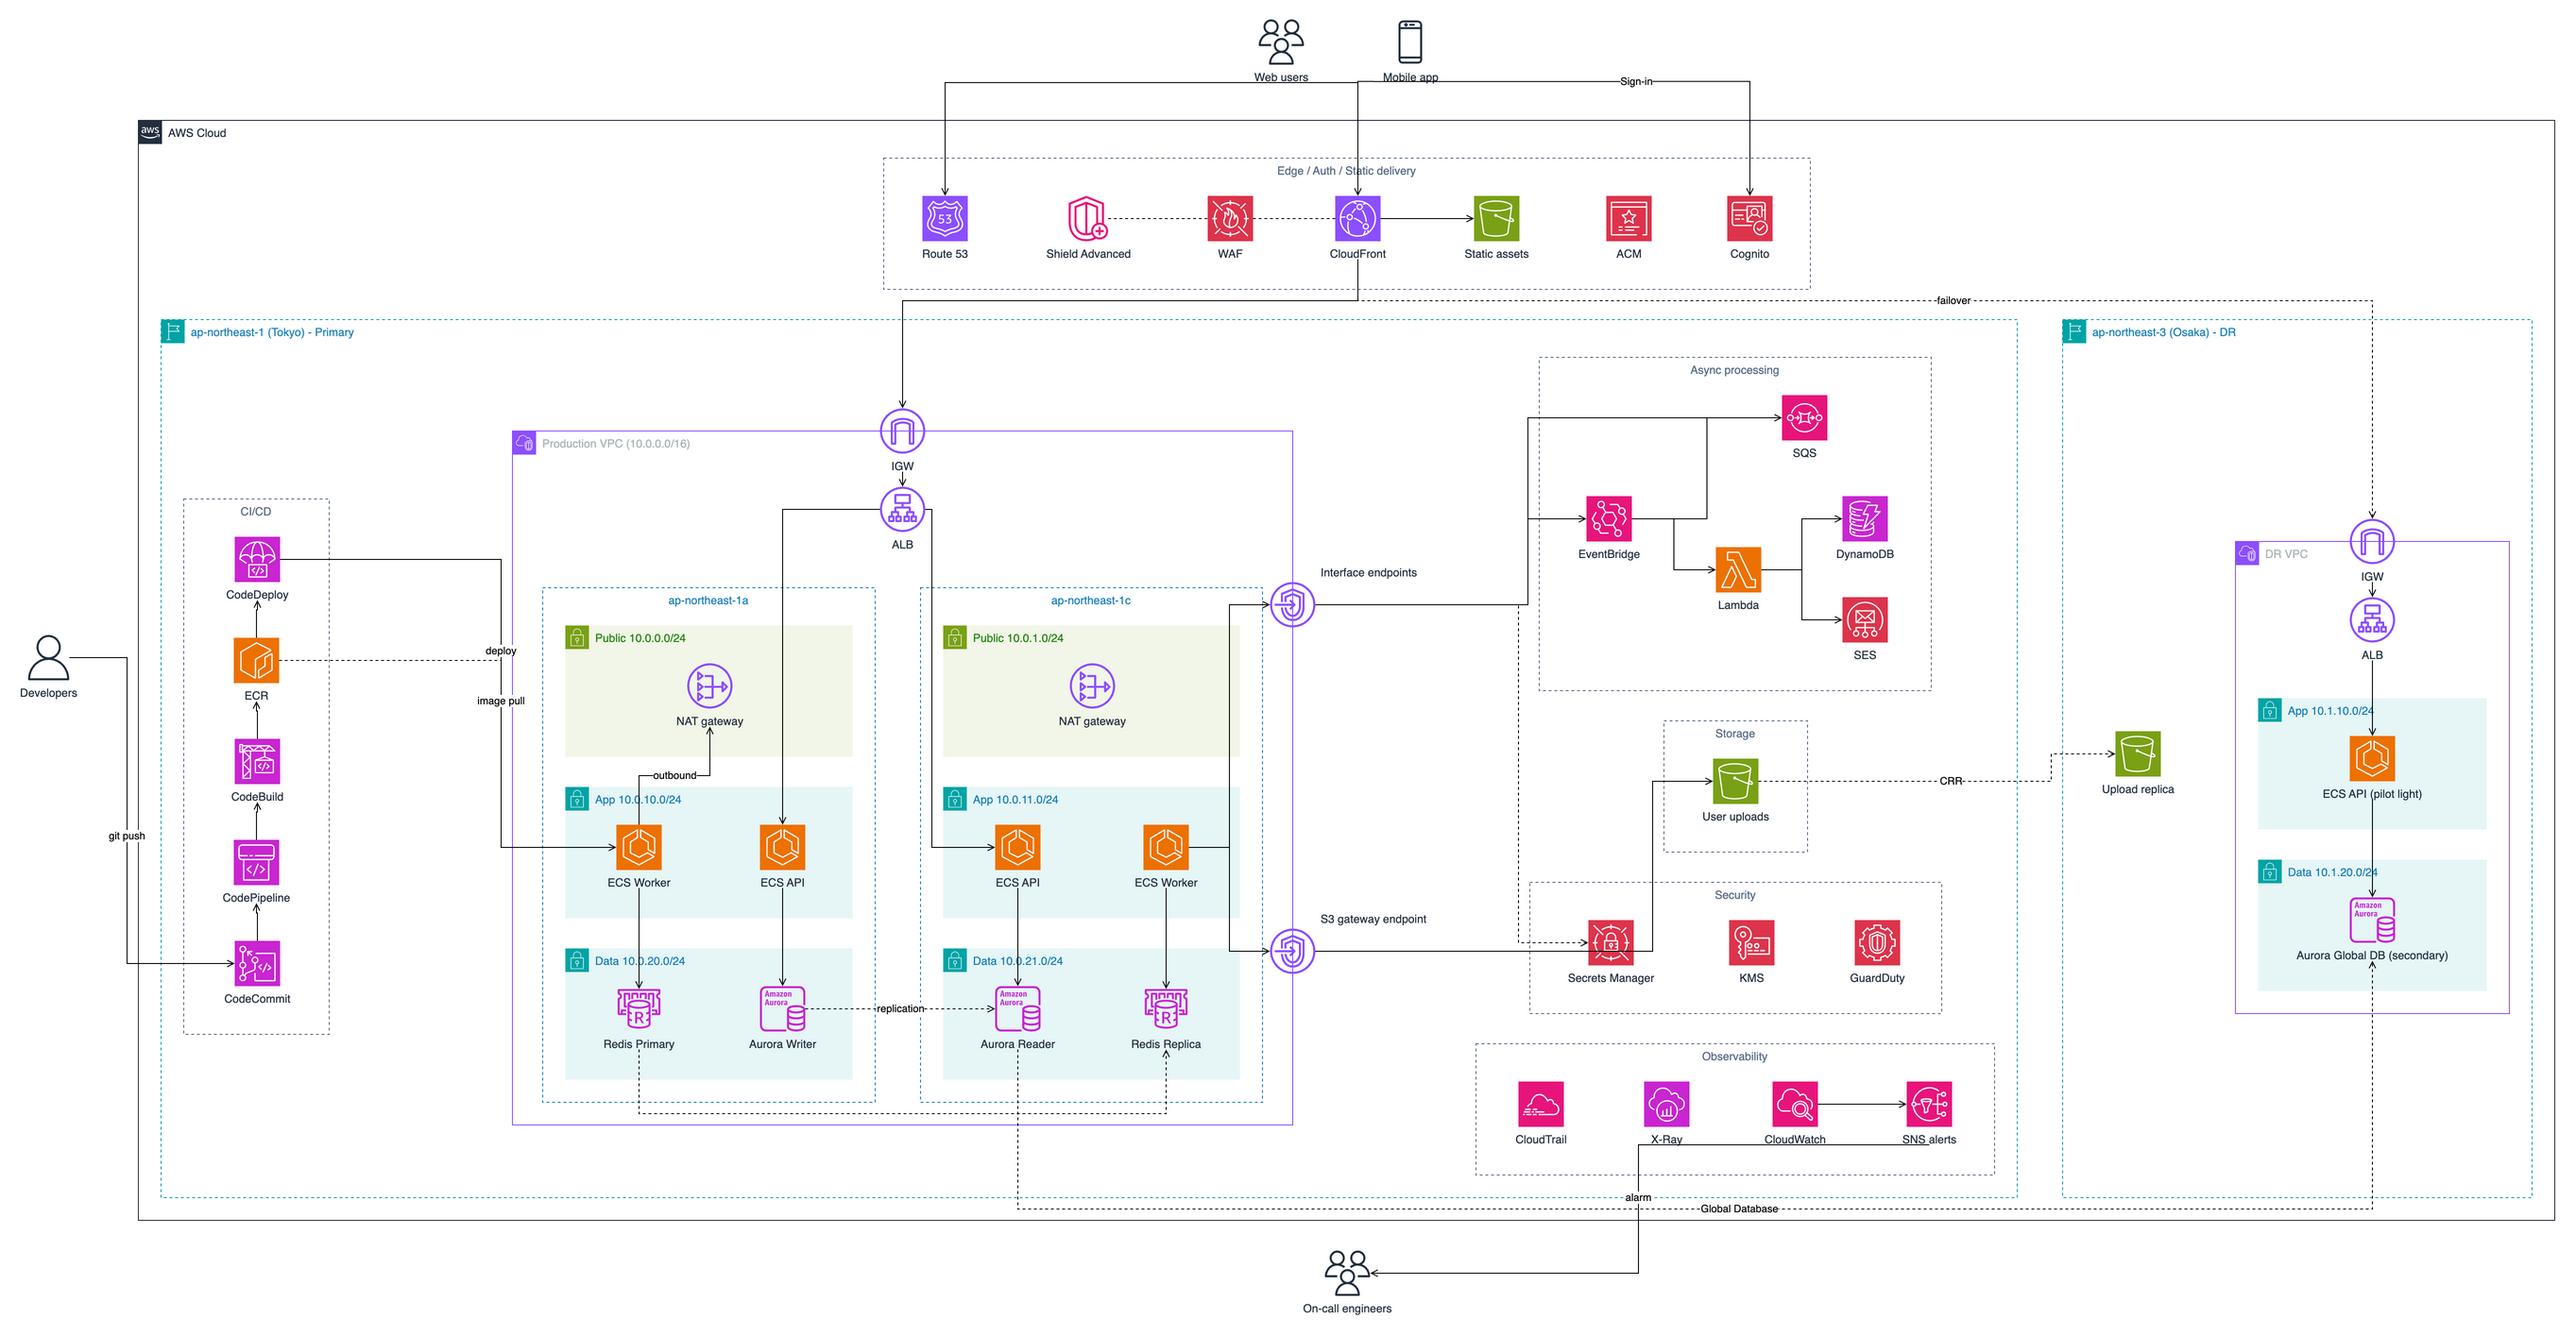
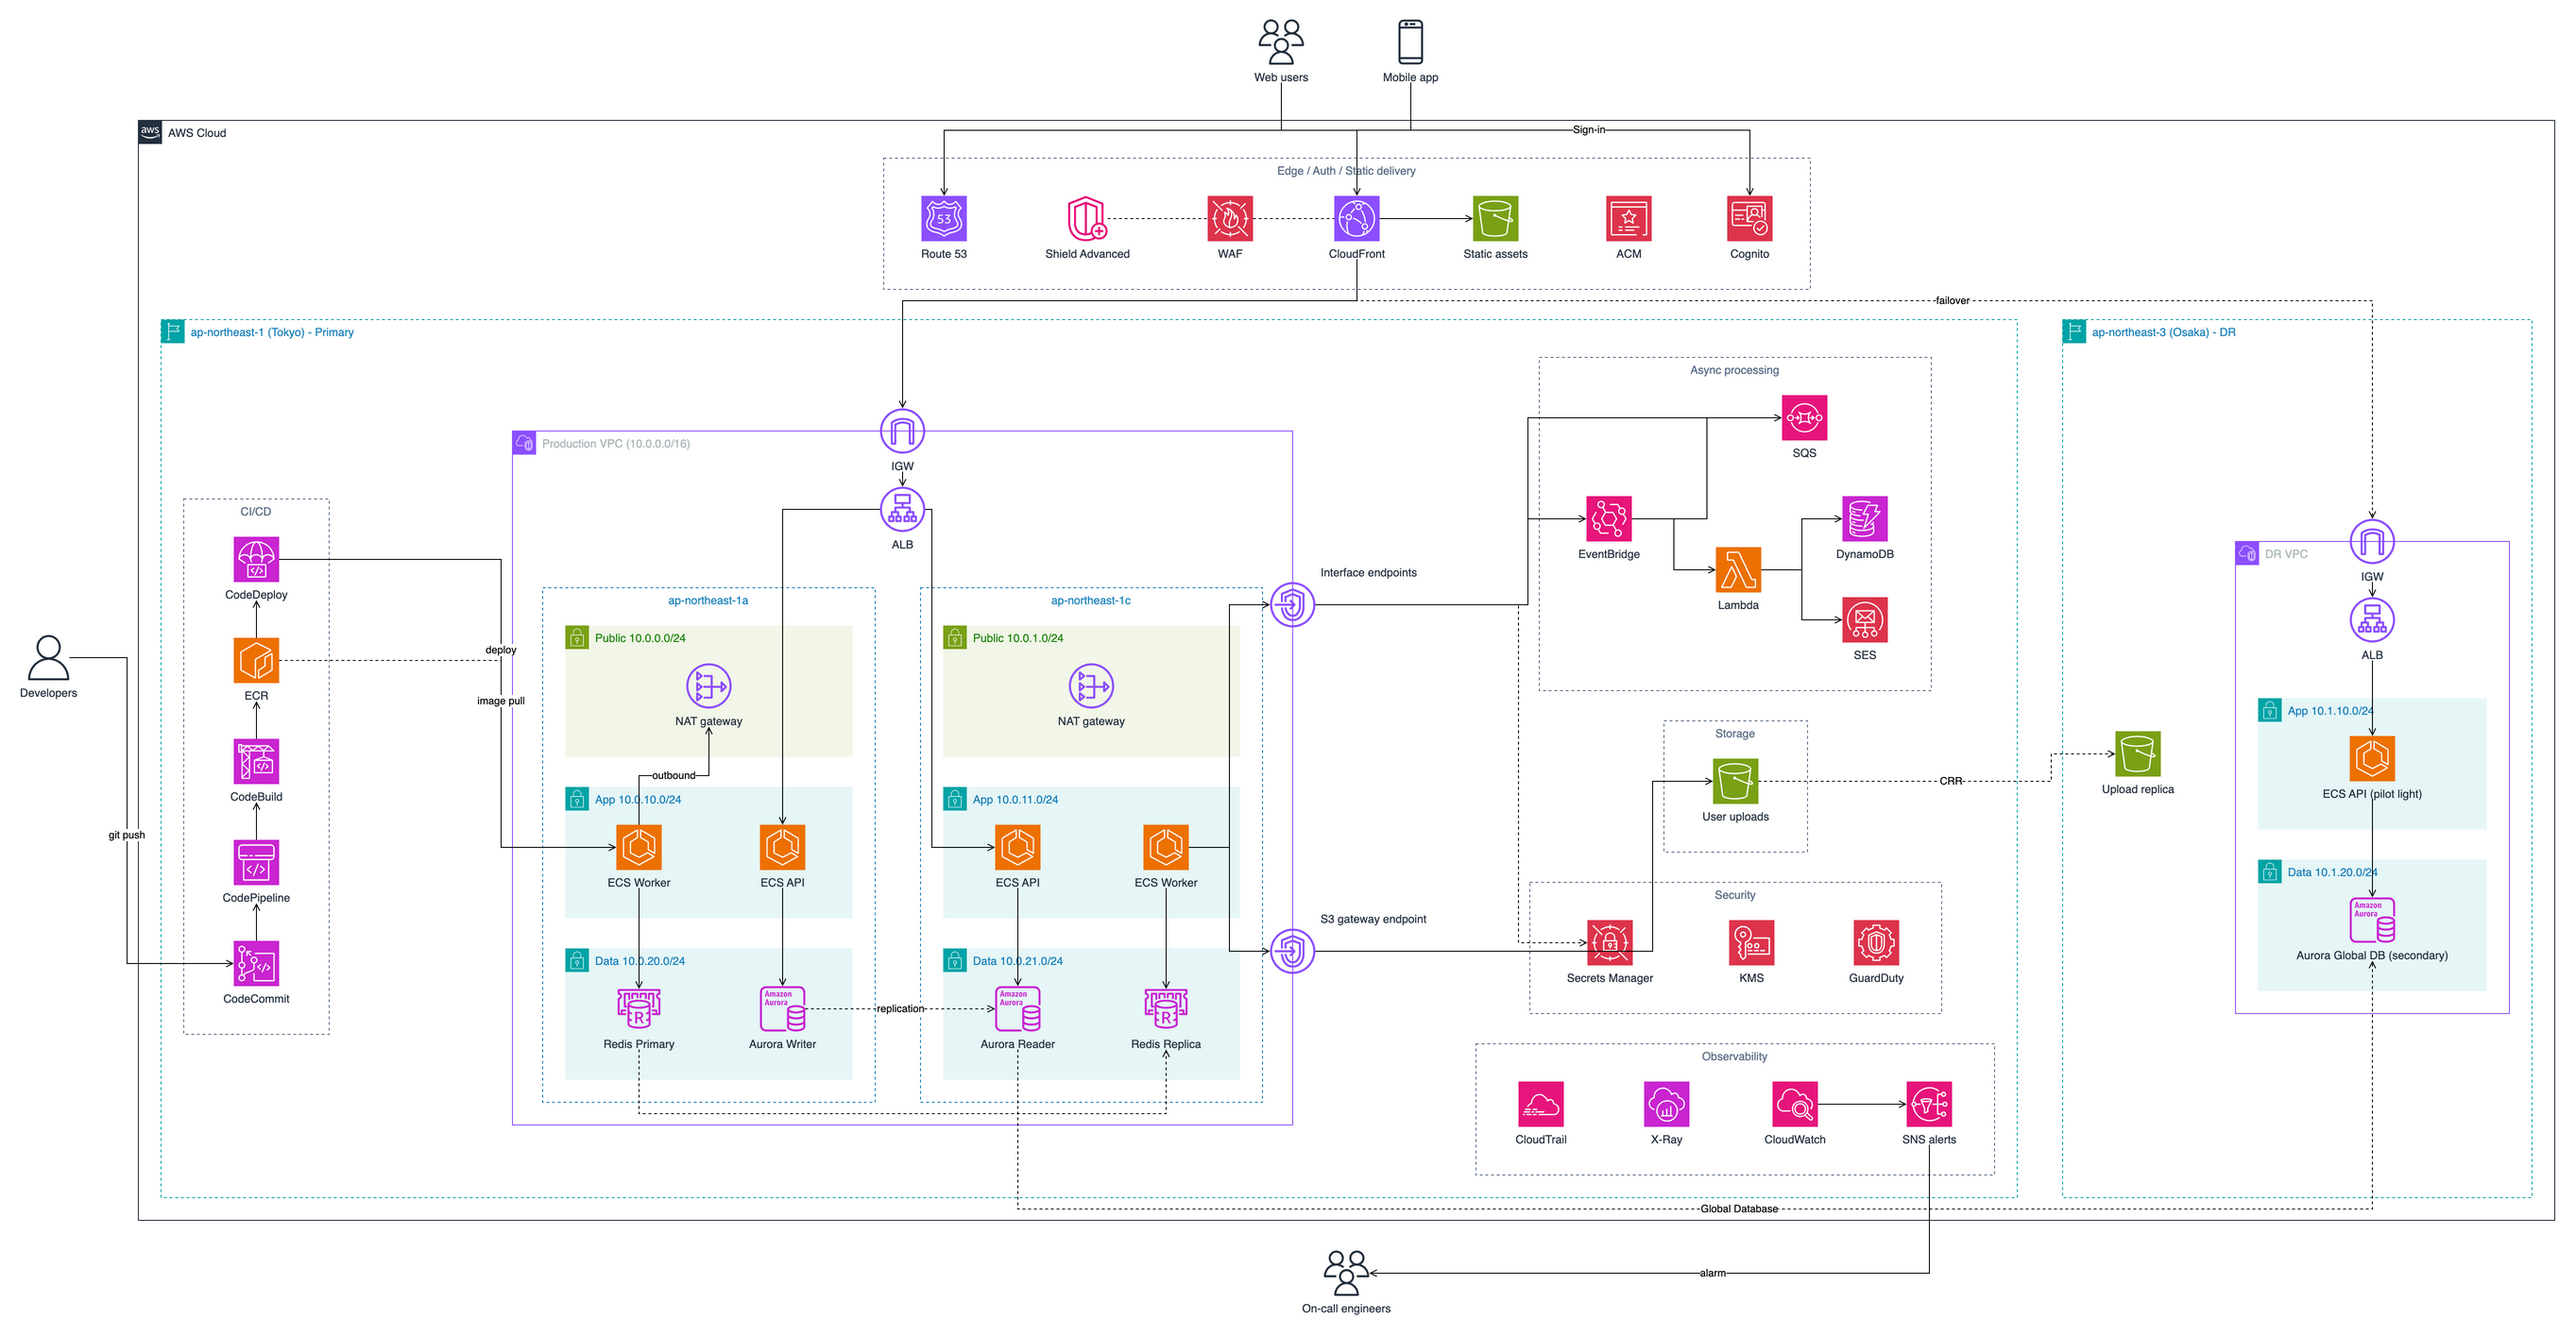
fix: tell draw.io which way a line leaves a port below a label
With exitPerimeter=0 the port of a line leaving the bottom of an icon
sits off the shape, below its label, and draw.io no longer knows which
side it is on. After the icons moved by a pixel, it started the alarm
line in the README image sideways, under the labels of the icons next
to it, which the crossing check could not foresee. sourcePortConstraint
(or targetPortConstraint) now says the line goes down.

diff --git a/src/drawio.ts b/src/drawio.ts
@@ -137,8 +137,12 @@ function port(
   // A label below the icon would be crossed, so a line leaving from the bottom starts under it
   const dy = y === 1 ? (belowIcon.get(endpoint.id) ?? 0) : 0;
   const keys = [`${prefix}X=${x}`, `${prefix}Y=${y}`, `${prefix}Dx=0`, `${prefix}Dy=${dy}`];
-  // draw.io moves a port onto the outline of the shape, which would pull it back above the label
-  return dy > 0 ? [...keys, `${prefix}Perimeter=0`] : keys;
+  if (dy === 0) return keys;
+  // draw.io moves a port onto the outline of the shape, which would pull it back above the label.
+  // Off the outline, it no longer knows which side the port is on and may start the line sideways,
+  // so the direction is given as well.
+  const constraint = prefix === 'exit' ? 'sourcePortConstraint' : 'targetPortConstraint';
+  return [...keys, `${prefix}Perimeter=0`, `${constraint}=south`];
 }
 
 function html(text: string): string {

diff --git a/test/drawio.test.ts b/test/drawio.test.ts
@@ -144,6 +144,8 @@ describe('toDrawio', () => {
     expect(cellTag(xml, 'router')).toContain('spacingTop=17;');
     // draw.io would move the port back onto the outline of the icon without exitPerimeter=0
     expect(cellTag(xml, 'link-1')).toContain(`exitDy=${17 + 15 + 4};exitPerimeter=0;`);
+    // Off the outline, draw.io needs to be told the line leaves downward
+    expect(cellTag(xml, 'link-1')).toContain('sourcePortConstraint=south;');
   });
 
   it('keeps icons of different widths stacked in a column on one center line', () => {
